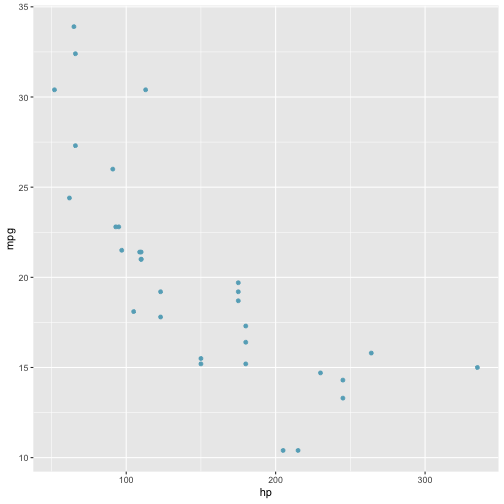
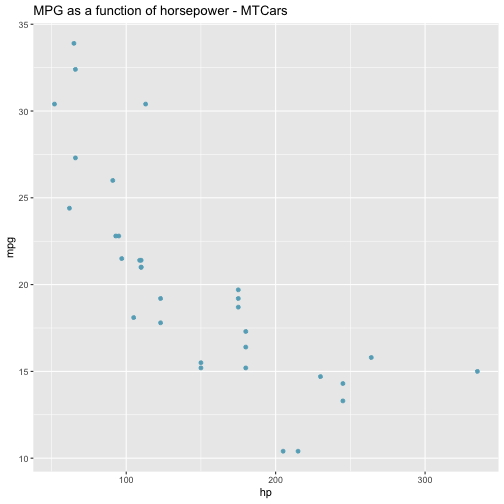
a

diff --git a/_posts/2018-07-18-test_render2.md b/_posts/2018-07-18-test_render2.md
@@ -1,0 +1,45 @@
+---
+layout: post
+title: "new test2"
+author: "Ryan"
+date: "July 18, 2018"
+output: 
+  html_document:
+    keep_md: true
+preserve_yaml: true
+---
+**Title test**
+This is a test of making an R script and using knitr to post to this Jekyll site. Here are the steps involved:
+1. Write up R script, e.g. file.R, with a YAML header
+2. When finished with script, convert to .Rmd using knitr::spin('file.R')
+
+
+
+
+{% highlight r %}
+a <- matrix(1:12, nrow = 3)
+a
+{% endhighlight %}
+
+
+
+{% highlight text %}
+##      [,1] [,2] [,3] [,4]
+## [1,]    1    4    7   10
+## [2,]    2    5    8   11
+## [3,]    3    6    9   12
+{% endhighlight %}
+
+
+
+{% highlight r %}
+data(mtcars)
+
+library(ggplot2)
+ggplot(mtcars, aes(x=hp, y=mpg))+ 
+  geom_point() +
+  ggtitle('MPG as a function of horsepower - MTCars')
+{% endhighlight %}
+
+![center](https://rberger997.github.io/figs/2018-07-18-test_render/unnamed-chunk-1-1.png)
+
